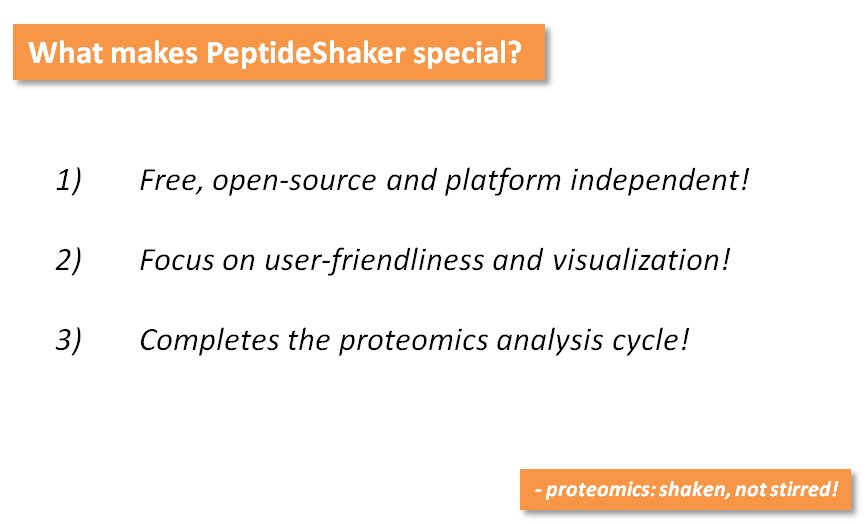
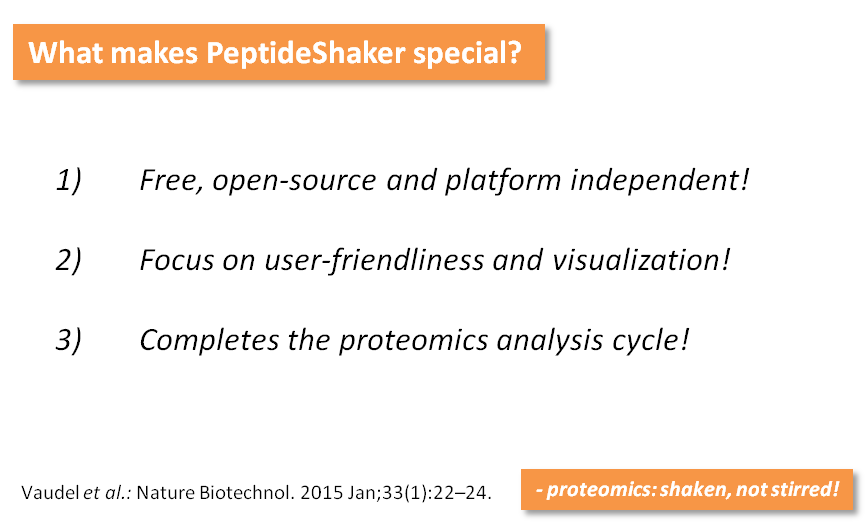
Fixed a bug in the use of the PathSettingsDialog from the WelcomeDialog. Added the PeptideShaker publication reference. Updated utilities to version 3.45.18. Moved project to version 0.36.0.

Changed region(s): [[0.0311, 0.916, 0.5606, 0.9771], [0.6228, 0.916, 0.9965, 0.9771]]

diff --git a/src/main/resources/helpFiles/PeptideShaker.html b/src/main/resources/helpFiles/PeptideShaker.html
@@ -24,18 +24,17 @@
         </ul>
 
         <p>
-            For how to use <b>PeptideShaker</b> please see our <a href="http://compomics.com/bioinformatics-for-proteomics/">Bioinformatics for Proteomics Tutorial</a>.
+            For how to use <b>PeptideShaker</b> please see our <a href="http://compomics.com/bioinformatics-for-proteomics/">Bioinformatics for Proteomics Tutorials</a>.
             <br><br>
             At the <b>PeptideShaker</b> home page you will also find a <i>Troubleshooting</i> section dealing with known issues 
             related to the startup and use of the tool.
-            <br><br>
-            <i><b>Need more help?</b> Look for the question mark icons.</i>
-            <!--<img src="images/help.GIF"/> <img src="images/help_no_frame.png"/>--->
             <br><br>
             If you find any bugs or have any questions please contact the developers. Information on how to do this can be 
             found on the <b>PeptideShaker</b> home page.
             <br><br>
             <b>PeptideShaker</b> home page: <a href="http://peptide-shaker.googlecode.com">http://peptide-shaker.googlecode.com</a>.
+            <br><br>
+            Please cite <b>PeptideShaker</b> as: <a href="http://www.nature.com/nbt/journal/v33/n1/full/nbt.3109.html">Vaudel <i>et al.</i>: Nature Biotechnol. 2015 Jan;33(1):22-24</a>.
         <p/>
         <br>
         <hr>

diff --git a/src/test/resources/helpFiles/PeptideShaker.html b/src/test/resources/helpFiles/PeptideShaker.html
@@ -24,18 +24,17 @@
         </ul>
 
         <p>
-            For how to use <b>PeptideShaker</b> please see our <a href="http://compomics.com/bioinformatics-for-proteomics/">Bioinformatics for Proteomics Tutorial</a>.
+            For how to use <b>PeptideShaker</b> please see our <a href="http://compomics.com/bioinformatics-for-proteomics/">Bioinformatics for Proteomics Tutorials</a>.
             <br><br>
             At the <b>PeptideShaker</b> home page you will also find a <i>Troubleshooting</i> section dealing with known issues 
             related to the startup and use of the tool.
-            <br><br>
-            <i><b>Need more help?</b> Look for the question mark icons.</i>
-            <!--<img src="images/help.GIF"/> <img src="images/help_no_frame.png"/>--->
             <br><br>
             If you find any bugs or have any questions please contact the developers. Information on how to do this can be 
             found on the <b>PeptideShaker</b> home page.
             <br><br>
             <b>PeptideShaker</b> home page: <a href="http://peptide-shaker.googlecode.com">http://peptide-shaker.googlecode.com</a>.
+            <br><br>
+            Please cite <b>PeptideShaker</b> as: <a href="http://www.nature.com/nbt/journal/v33/n1/full/nbt.3109.html">Vaudel <i>et al.</i>: Nature Biotechnol. 2015 Jan;33(1):22-24</a>.
         <p/>
         <br>
         <hr>

diff --git a/src/main/resources/helpFiles/AboutPeptideShaker.html b/src/main/resources/helpFiles/AboutPeptideShaker.html
@@ -14,9 +14,7 @@
             <br><br>
             <b>PeptideShaker</b> home page: <a href="http://peptide-shaker.googlecode.com">http://peptide-shaker.googlecode.com</a>.
             <br><br>
-            <b>PeptideShaker</b> does not yet have its own publication, please refer to these two for now:
-            (i) <a href="http://www.ncbi.nlm.nih.gov/pubmed/21385435">Barsnes et al: BMC Bioinformatics. 2011 Mar 8;12(1):70</a>. (the PeptideShaker backend) and
-            (ii) <a href="http://www.ncbi.nlm.nih.gov/pubmed/21337703">Vaudel et al: Proteomics 2011;11(5):996-9</a> (SearchGUI).
+            Please cite <b>PeptideShaker</b> as: <a href="http://www.nature.com/nbt/journal/v33/n1/full/nbt.3109.html">Vaudel <i>et al.</i>: Nature Biotechnol. 2015 Jan;33(1):22-24</a>.
             <br><br>
             For referring to the web page, please use: <a href="http://peptide-shaker.googlecode.com">http://peptide-shaker.googlecode.com</a>.
         </p>

diff --git a/src/test/resources/helpFiles/AboutPeptideShaker.html b/src/test/resources/helpFiles/AboutPeptideShaker.html
@@ -14,9 +14,7 @@
             <br><br>
             <b>PeptideShaker</b> home page: <a href="http://peptide-shaker.googlecode.com">http://peptide-shaker.googlecode.com</a>.
             <br><br>
-            <b>PeptideShaker</b> does not yet have its own publication, please refer to these two for now:
-            (i) <a href="http://www.ncbi.nlm.nih.gov/pubmed/21385435">Barsnes et al: BMC Bioinformatics. 2011 Mar 8;12(1):70</a>. (the PeptideShaker backend) and
-            (ii) <a href="http://www.ncbi.nlm.nih.gov/pubmed/21337703">Vaudel et al: Proteomics 2011;11(5):996-9</a> (SearchGUI).
+            Please cite <b>PeptideShaker</b> as: <a href="http://www.nature.com/nbt/journal/v33/n1/full/nbt.3109.html">Vaudel <i>et al.</i>: Nature Biotechnol. 2015 Jan;33(1):22-24</a>.
             <br><br>
             For referring to the web page, please use: <a href="http://peptide-shaker.googlecode.com">http://peptide-shaker.googlecode.com</a>.
         </p>

diff --git a/src/main/java/eu/isas/peptideshaker/gui/NewDialog.java b/src/main/java/eu/isas/peptideshaker/gui/NewDialog.java
@@ -230,7 +230,7 @@ public class NewDialog extends javax.swing.JDialog {
         browseDbButton = new javax.swing.JButton();
         clearDbButton = new javax.swing.JButton();
         aboutButton = new javax.swing.JButton();
-        peptideShakerHomePageLabel = new javax.swing.JLabel();
+        peptideShakerPublicationLabel = new javax.swing.JLabel();
 
         setDefaultCloseOperation(javax.swing.WindowConstants.DO_NOTHING_ON_CLOSE);
         setTitle("PeptideShaker - New Project");
@@ -414,7 +414,7 @@ public class NewDialog extends javax.swing.JDialog {
                     .addComponent(importFiltersLabel1, javax.swing.GroupLayout.PREFERRED_SIZE, 131, javax.swing.GroupLayout.PREFERRED_SIZE))
                 .addPreferredGap(javax.swing.LayoutStyle.ComponentPlacement.RELATED)
                 .addGroup(processingParametersPanelLayout.createParallelGroup(javax.swing.GroupLayout.Alignment.LEADING)
-                    .addComponent(preferencesTxt)
+                    .addComponent(preferencesTxt, javax.swing.GroupLayout.DEFAULT_SIZE, 519, Short.MAX_VALUE)
                     .addComponent(searchTxt, javax.swing.GroupLayout.Alignment.TRAILING)
                     .addComponent(importFilterTxt, javax.swing.GroupLayout.Alignment.TRAILING))
                 .addPreferredGap(javax.swing.LayoutStyle.ComponentPlacement.UNRELATED)
@@ -608,17 +608,17 @@ public class NewDialog extends javax.swing.JDialog {
             }
         });
 
-        peptideShakerHomePageLabel.setText("<html>Please cite PeptideShaker as <a href=\"http://peptide-shaker.googlecode.com\">PeptideShaker (http://peptide-shaker.googlecode.com)</a>.</html>\n\n");
-        peptideShakerHomePageLabel.setToolTipText("Open the PeptideShaker web page");
-        peptideShakerHomePageLabel.addMouseListener(new java.awt.event.MouseAdapter() {
+        peptideShakerPublicationLabel.setText("<html>Please cite PeptideShaker as <a href=\"http://www.nature.com/nbt/journal/v33/n1/full/nbt.3109.html\">Vaudel <i>et al.</i>: Nature Biotechnol. 2015 Jan;33(1):22–24</a>.</html>\n\n");
+        peptideShakerPublicationLabel.setToolTipText("Open the PeptideShaker publication");
+        peptideShakerPublicationLabel.addMouseListener(new java.awt.event.MouseAdapter() {
             public void mouseClicked(java.awt.event.MouseEvent evt) {
-                peptideShakerHomePageLabelMouseClicked(evt);
+                peptideShakerPublicationLabelMouseClicked(evt);
             }
             public void mouseEntered(java.awt.event.MouseEvent evt) {
-                peptideShakerHomePageLabelMouseEntered(evt);
+                peptideShakerPublicationLabelMouseEntered(evt);
             }
             public void mouseExited(java.awt.event.MouseEvent evt) {
-                peptideShakerHomePageLabelMouseExited(evt);
+                peptideShakerPublicationLabelMouseExited(evt);
             }
         });
 
@@ -632,9 +632,9 @@ public class NewDialog extends javax.swing.JDialog {
                     .addGroup(sampleDetailsPanelLayout.createSequentialGroup()
                         .addGap(10, 10, 10)
                         .addComponent(aboutButton)
-                        .addGap(71, 71, 71)
-                        .addComponent(peptideShakerHomePageLabel)
-                        .addGap(44, 44, 44)
+                        .addPreferredGap(javax.swing.LayoutStyle.ComponentPlacement.RELATED, javax.swing.GroupLayout.DEFAULT_SIZE, Short.MAX_VALUE)
+                        .addComponent(peptideShakerPublicationLabel, javax.swing.GroupLayout.PREFERRED_SIZE, 515, javax.swing.GroupLayout.PREFERRED_SIZE)
+                        .addPreferredGap(javax.swing.LayoutStyle.ComponentPlacement.RELATED)
                         .addComponent(loadButton, javax.swing.GroupLayout.PREFERRED_SIZE, 141, javax.swing.GroupLayout.PREFERRED_SIZE)
                         .addGap(22, 22, 22))
                     .addComponent(projectDetailsPanel, javax.swing.GroupLayout.DEFAULT_SIZE, javax.swing.GroupLayout.DEFAULT_SIZE, Short.MAX_VALUE)
@@ -654,7 +654,7 @@ public class NewDialog extends javax.swing.JDialog {
                 .addPreferredGap(javax.swing.LayoutStyle.ComponentPlacement.UNRELATED)
                 .addGroup(sampleDetailsPanelLayout.createParallelGroup(javax.swing.GroupLayout.Alignment.CENTER)
                     .addComponent(aboutButton)
-                    .addComponent(peptideShakerHomePageLabel, javax.swing.GroupLayout.PREFERRED_SIZE, 45, javax.swing.GroupLayout.PREFERRED_SIZE)
+                    .addComponent(peptideShakerPublicationLabel, javax.swing.GroupLayout.PREFERRED_SIZE, 45, javax.swing.GroupLayout.PREFERRED_SIZE)
                     .addComponent(loadButton, javax.swing.GroupLayout.PREFERRED_SIZE, 53, javax.swing.GroupLayout.PREFERRED_SIZE))
                 .addContainerGap(javax.swing.GroupLayout.DEFAULT_SIZE, Short.MAX_VALUE))
         );
@@ -1268,29 +1268,29 @@ public class NewDialog extends javax.swing.JDialog {
      *
      * @param evt
      */
-    private void peptideShakerHomePageLabelMouseClicked(java.awt.event.MouseEvent evt) {//GEN-FIRST:event_peptideShakerHomePageLabelMouseClicked
+    private void peptideShakerPublicationLabelMouseClicked(java.awt.event.MouseEvent evt) {//GEN-FIRST:event_peptideShakerPublicationLabelMouseClicked
         this.setCursor(new java.awt.Cursor(java.awt.Cursor.WAIT_CURSOR));
-        BareBonesBrowserLaunch.openURL("http://peptide-shaker.googlecode.com");
+        BareBonesBrowserLaunch.openURL("http://www.nature.com/nbt/journal/v33/n1/full/nbt.3109.html");
         this.setCursor(new java.awt.Cursor(java.awt.Cursor.DEFAULT_CURSOR));
-    }//GEN-LAST:event_peptideShakerHomePageLabelMouseClicked
+    }//GEN-LAST:event_peptideShakerPublicationLabelMouseClicked
 
     /**
      * Change the cursor to a hand cursor.
      *
      * @param evt
      */
-    private void peptideShakerHomePageLabelMouseEntered(java.awt.event.MouseEvent evt) {//GEN-FIRST:event_peptideShakerHomePageLabelMouseEntered
+    private void peptideShakerPublicationLabelMouseEntered(java.awt.event.MouseEvent evt) {//GEN-FIRST:event_peptideShakerPublicationLabelMouseEntered
         this.setCursor(new java.awt.Cursor(java.awt.Cursor.HAND_CURSOR));
-    }//GEN-LAST:event_peptideShakerHomePageLabelMouseEntered
+    }//GEN-LAST:event_peptideShakerPublicationLabelMouseEntered
 
     /**
      * Change the cursor back to the default cursor.
      *
      * @param evt
      */
-    private void peptideShakerHomePageLabelMouseExited(java.awt.event.MouseEvent evt) {//GEN-FIRST:event_peptideShakerHomePageLabelMouseExited
+    private void peptideShakerPublicationLabelMouseExited(java.awt.event.MouseEvent evt) {//GEN-FIRST:event_peptideShakerPublicationLabelMouseExited
         this.setCursor(new java.awt.Cursor(java.awt.Cursor.DEFAULT_CURSOR));
-    }//GEN-LAST:event_peptideShakerHomePageLabelMouseExited
+    }//GEN-LAST:event_peptideShakerPublicationLabelMouseExited
 
     /**
      * Display the list of selected identification files.
@@ -1429,7 +1429,7 @@ public class NewDialog extends javax.swing.JDialog {
     private javax.swing.JLabel importFiltersLabel1;
     private javax.swing.JPanel inputFilesPanel;
     private javax.swing.JButton loadButton;
-    private javax.swing.JLabel peptideShakerHomePageLabel;
+    private javax.swing.JLabel peptideShakerPublicationLabel;
     private javax.swing.JTextField preferencesTxt;
     private javax.swing.JPanel processingParametersPanel;
     private javax.swing.JPanel projectDetailsPanel;

diff --git a/src/main/java/eu/isas/peptideshaker/gui/pride/PrideReshakeGUI.java b/src/main/java/eu/isas/peptideshaker/gui/pride/PrideReshakeGUI.java
@@ -587,7 +587,7 @@ public class PrideReshakeGUI extends javax.swing.JFrame {
         filesHelpLabel = new javax.swing.JLabel();
         reshakableCheckBox = new javax.swing.JCheckBox();
         aboutButton = new javax.swing.JButton();
-        peptideShakerHomePageLabel = new javax.swing.JLabel();
+        peptideShakerPublicationLabel = new javax.swing.JLabel();
         menuBar = new javax.swing.JMenuBar();
         fileMenu = new javax.swing.JMenu();
         exitMenuItem = new javax.swing.JMenuItem();
@@ -941,17 +941,17 @@ public class PrideReshakeGUI extends javax.swing.JFrame {
             }
         });
 
-        peptideShakerHomePageLabel.setText("<html>Please cite PeptideShaker as <a href=\"http://peptide-shaker.googlecode.com\">PeptideShaker (http://peptide-shaker.googlecode.com)</a>.</html>\n\n");
-        peptideShakerHomePageLabel.setToolTipText("Open the PeptideShaker web page");
-        peptideShakerHomePageLabel.addMouseListener(new java.awt.event.MouseAdapter() {
+        peptideShakerPublicationLabel.setText("<html>Please cite PeptideShaker as <a href=\"http://www.nature.com/nbt/journal/v33/n1/full/nbt.3109.html\">Vaudel <i>et al.</i>: Nature Biotechnol. 2015 Jan;33(1):22–24</a>.</html>\n\n");
+        peptideShakerPublicationLabel.setToolTipText("Open the PeptideShaker publication");
+        peptideShakerPublicationLabel.addMouseListener(new java.awt.event.MouseAdapter() {
             public void mouseClicked(java.awt.event.MouseEvent evt) {
-                peptideShakerHomePageLabelMouseClicked(evt);
+                peptideShakerPublicationLabelMouseClicked(evt);
             }
             public void mouseEntered(java.awt.event.MouseEvent evt) {
-                peptideShakerHomePageLabelMouseEntered(evt);
+                peptideShakerPublicationLabelMouseEntered(evt);
             }
             public void mouseExited(java.awt.event.MouseEvent evt) {
-                peptideShakerHomePageLabelMouseExited(evt);
+                peptideShakerPublicationLabelMouseExited(evt);
             }
         });
 
@@ -966,7 +966,7 @@ public class PrideReshakeGUI extends javax.swing.JFrame {
                         .addGap(10, 10, 10)
                         .addComponent(aboutButton)
                         .addGap(48, 48, 48)
-                        .addComponent(peptideShakerHomePageLabel, javax.swing.GroupLayout.PREFERRED_SIZE, 527, javax.swing.GroupLayout.PREFERRED_SIZE)
+                        .addComponent(peptideShakerPublicationLabel, javax.swing.GroupLayout.PREFERRED_SIZE, 564, javax.swing.GroupLayout.PREFERRED_SIZE)
                         .addPreferredGap(javax.swing.LayoutStyle.ComponentPlacement.RELATED, javax.swing.GroupLayout.DEFAULT_SIZE, Short.MAX_VALUE)
                         .addComponent(reshakeButton)
                         .addGap(14, 14, 14))
@@ -988,7 +988,7 @@ public class PrideReshakeGUI extends javax.swing.JFrame {
                 .addGroup(backgroundPanelLayout.createParallelGroup(javax.swing.GroupLayout.Alignment.TRAILING)
                     .addGroup(backgroundPanelLayout.createParallelGroup(javax.swing.GroupLayout.Alignment.BASELINE)
                         .addComponent(reshakeButton, javax.swing.GroupLayout.PREFERRED_SIZE, 53, javax.swing.GroupLayout.PREFERRED_SIZE)
-                        .addComponent(peptideShakerHomePageLabel, javax.swing.GroupLayout.PREFERRED_SIZE, 45, javax.swing.GroupLayout.PREFERRED_SIZE))
+                        .addComponent(peptideShakerPublicationLabel, javax.swing.GroupLayout.PREFERRED_SIZE, 45, javax.swing.GroupLayout.PREFERRED_SIZE))
                     .addComponent(aboutButton))
                 .addContainerGap())
         );
@@ -1375,29 +1375,29 @@ public class PrideReshakeGUI extends javax.swing.JFrame {
      *
      * @param evt
      */
-    private void peptideShakerHomePageLabelMouseClicked(java.awt.event.MouseEvent evt) {//GEN-FIRST:event_peptideShakerHomePageLabelMouseClicked
+    private void peptideShakerPublicationLabelMouseClicked(java.awt.event.MouseEvent evt) {//GEN-FIRST:event_peptideShakerPublicationLabelMouseClicked
         this.setCursor(new java.awt.Cursor(java.awt.Cursor.WAIT_CURSOR));
-        BareBonesBrowserLaunch.openURL("http://peptide-shaker.googlecode.com");
+        BareBonesBrowserLaunch.openURL("http://www.nature.com/nbt/journal/v33/n1/full/nbt.3109.html");
         this.setCursor(new java.awt.Cursor(java.awt.Cursor.DEFAULT_CURSOR));
-    }//GEN-LAST:event_peptideShakerHomePageLabelMouseClicked
+    }//GEN-LAST:event_peptideShakerPublicationLabelMouseClicked
 
     /**
      * Change the cursor to a hand icon.
      *
      * @param evt
      */
-    private void peptideShakerHomePageLabelMouseEntered(java.awt.event.MouseEvent evt) {//GEN-FIRST:event_peptideShakerHomePageLabelMouseEntered
+    private void peptideShakerPublicationLabelMouseEntered(java.awt.event.MouseEvent evt) {//GEN-FIRST:event_peptideShakerPublicationLabelMouseEntered
         this.setCursor(new java.awt.Cursor(java.awt.Cursor.HAND_CURSOR));
-    }//GEN-LAST:event_peptideShakerHomePageLabelMouseEntered
+    }//GEN-LAST:event_peptideShakerPublicationLabelMouseEntered
 
     /**
      * Change the cursor back to the default icon.
      *
      * @param evt
      */
-    private void peptideShakerHomePageLabelMouseExited(java.awt.event.MouseEvent evt) {//GEN-FIRST:event_peptideShakerHomePageLabelMouseExited
+    private void peptideShakerPublicationLabelMouseExited(java.awt.event.MouseEvent evt) {//GEN-FIRST:event_peptideShakerPublicationLabelMouseExited
         this.setCursor(new java.awt.Cursor(java.awt.Cursor.DEFAULT_CURSOR));
-    }//GEN-LAST:event_peptideShakerHomePageLabelMouseExited
+    }//GEN-LAST:event_peptideShakerPublicationLabelMouseExited
 
     /**
      * Close the dialog.
@@ -3296,7 +3296,7 @@ public class PrideReshakeGUI extends javax.swing.JFrame {
     private javax.swing.JMenu helpMenu;
     private javax.swing.JMenuItem helpMenuItem;
     private javax.swing.JMenuBar menuBar;
-    private javax.swing.JLabel peptideShakerHomePageLabel;
+    private javax.swing.JLabel peptideShakerPublicationLabel;
     private javax.swing.JLabel projectHelpLabel;
     private javax.swing.JLabel projectSearchLabel;
     private javax.swing.JPanel projectsPanel;

diff --git a/src/main/java/eu/isas/peptideshaker/gui/PeptideShakerGUI.java b/src/main/java/eu/isas/peptideshaker/gui/PeptideShakerGUI.java
@@ -40,14 +40,12 @@ import com.compomics.util.gui.JOptionEditorPane;
 import com.compomics.util.gui.PrivacySettingsDialog;
 import com.compomics.util.gui.UtilitiesGUIDefaults;
 import com.compomics.util.gui.error_handlers.notification.NotesDialog;
-import com.compomics.util.gui.error_handlers.notification.NotificationDialog;
 import com.compomics.util.gui.filehandling.TempFilesManager;
 import com.compomics.util.gui.waiting.waitinghandlers.ProgressDialogX;
 import com.compomics.util.preferences.AnnotationPreferences;
 import com.compomics.util.preferences.UtilitiesUserPreferences;
 import com.compomics.util.gui.searchsettings.SearchSettingsDialog;
 import com.compomics.util.gui.tablemodels.SelfUpdatingTableModel;
-import com.compomics.util.gui.utils.SwingUtils;
 import eu.isas.peptideshaker.PeptideShaker;
 import com.compomics.util.preferences.IdFilter;
 import eu.isas.peptideshaker.gui.preferencesdialogs.*;
@@ -116,7 +114,6 @@ import net.jimmc.jshortcut.JShellLink;
 import org.jfree.chart.ChartPanel;
 import org.jfree.chart.renderer.xy.StandardXYBarPainter;
 import org.jfree.chart.renderer.xy.XYBarRenderer;
-import uk.ac.ebi.jmzml.xml.io.MzMLUnmarshallerException;
 
 /**
  * The main PeptideShaker frame.
@@ -1502,8 +1499,9 @@ public class PeptideShakerGUI extends JFrame implements ClipboardOwner, JavaHome
         });
         editMenu.add(javaOptionsJMenuItem);
 
-        configurationFilesSettings.setText("Resource Folders");
-        configurationFilesSettings.setToolTipText("Set Path to resource folders");
+        configurationFilesSettings.setMnemonic('E');
+        configurationFilesSettings.setText("Resource Settings");
+        configurationFilesSettings.setToolTipText("Set paths to resource folders");
         configurationFilesSettings.addActionListener(new java.awt.event.ActionListener() {
             public void actionPerformed(java.awt.event.ActionEvent evt) {
                 configurationFilesSettingsActionPerformed(evt);
@@ -3089,14 +3087,21 @@ public class PeptideShakerGUI extends JFrame implements ClipboardOwner, JavaHome
         updateTipsNotificationCounter();
     }//GEN-LAST:event_tipsButtonMouseReleased
 
+    /**
+     * Open the Edit Paths dialog.
+     * 
+     * @param evt 
+     */
     private void configurationFilesSettingsActionPerformed(java.awt.event.ActionEvent evt) {//GEN-FIRST:event_configurationFilesSettingsActionPerformed
-        editPathSettings();
+        editPathSettings(null);
     }//GEN-LAST:event_configurationFilesSettingsActionPerformed
 
     /**
-     * Opens a dialog allowing the setting of paths
+     * Opens a dialog allowing the setting of paths.
+     * 
+     * @param welcomeDialog reference to the Welcome dialog, can be null
      */
-    public void editPathSettings() {
+    public void editPathSettings(WelcomeDialog welcomeDialog) {
         try {
             HashMap<PathKey, String> pathSettings = new HashMap<PathKey, String>();
             for (PeptideShakerPathKey peptideShakerPathKey : PeptideShakerPathKey.values()) {
@@ -3114,10 +3119,13 @@ public class PeptideShakerGUI extends JFrame implements ClipboardOwner, JavaHome
                         PeptideShakerPathPreferences.setPathPreferences(pathKey, newPath);
                     }
                 }
-                // Write path file preference
+                // write path file preference
                 File destinationFile = new File(getJarFilePath(), PeptideShakerPathPreferences.configurationFileName);
                 try {
                     PeptideShakerPathPreferences.writeConfigurationToFile(destinationFile);
+                    if (welcomeDialog != null) {
+                        welcomeDialog.setVisible(false);
+                    }
                     restart();
                 } catch (Exception e) {
                     catchException(e);

diff --git a/src/main/java/eu/isas/peptideshaker/gui/WelcomeDialog.java b/src/main/java/eu/isas/peptideshaker/gui/WelcomeDialog.java
@@ -133,8 +133,7 @@ public class WelcomeDialog extends javax.swing.JDialog {
         });
         settingsMenu.add(javaSettingsMenuItem);
 
-        pathSettingsMenu.setText("Resource Folders");
-        pathSettingsMenu.setToolTipText("Set Path to resource folders");
+        pathSettingsMenu.setText("Resource Settings");
         pathSettingsMenu.addActionListener(new java.awt.event.ActionListener() {
             public void actionPerformed(java.awt.event.ActionEvent evt) {
                 pathSettingsMenuActionPerformed(evt);
@@ -871,8 +870,13 @@ public class WelcomeDialog extends javax.swing.JDialog {
         new JavaSettingsDialog(dummyParentFrame, peptideShakerGUI, this, "PeptideShaker", true);
     }//GEN-LAST:event_lowMemoryWarningLabelMouseReleased
 
+    /**
+     * Open the Edit Paths dialog.
+     * 
+     * @param evt 
+     */
     private void pathSettingsMenuActionPerformed(java.awt.event.ActionEvent evt) {//GEN-FIRST:event_pathSettingsMenuActionPerformed
-        peptideShakerGUI.editPathSettings();
+        peptideShakerGUI.editPathSettings(this);
     }//GEN-LAST:event_pathSettingsMenuActionPerformed
 
     // Variables declaration - do not modify//GEN-BEGIN:variables

diff --git a/src/main/java/eu/isas/peptideshaker/utils/IdentificationFeaturesGenerator.java b/src/main/java/eu/isas/peptideshaker/utils/IdentificationFeaturesGenerator.java
@@ -666,7 +666,7 @@ public class IdentificationFeaturesGenerator {
             Double result = referenceMass * spectrumCounting;
             Double totalCounting = metrics.getTotalSpectrumCountingMass();
             result /= totalCounting;
-            int unitCorrection = 6 + 3 + 9 - 4 + metricsPrefix.POWER; // offset + kDaâ†’Da + kgâ†’Î¼ + Avogadro.AMU exponents + metrics POWER
+            int unitCorrection = 6 + 3 + 9 - 4 + metricsPrefix.POWER; // offset + kDa to Da + kg to u + Avogadro.AMU exponents + metrics POWER
             double constants = Constants.AVOGADRO_NO_EXP * Constants.AMU_NO_EXP * Math.pow(10, unitCorrection);
             result /= constants;
             return result;
